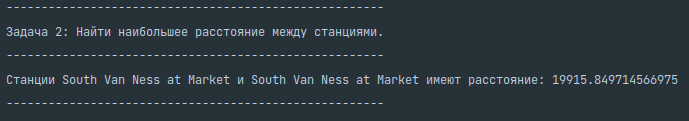
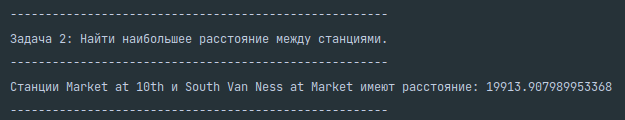
fix lab1

diff --git a/LabWork1/README.md b/LabWork1/README.md
@@ -33,18 +33,19 @@
 
 2. Найти наибольшее расстояние между станциями.
 
-Производим декартово произведение таблицы stationsInternal на саму себя при помощи ```cartesian```. Для каждой пары станции составляем кортеж: пара имен станций и расстояние, вычисленное по определенной [формуле](https://en.wikipedia.org/wiki/Haversine_formula). После сравниваем пары и выбираем с наибольшим расстоянием.
+Производим декартово произведение таблицы stationsInternal на саму себя при помощи ```cartesian```. Фильтруем пары так, чтобы в паре не было станций с одинаковыми названиями. Для каждой пары станции составляем кортеж: пара имен станций и расстояние, вычисленное по определенной [формуле](https://en.wikipedia.org/wiki/Haversine_formula). После сравниваем пары и выбираем с наибольшим расстоянием.
 
 ```
- val r_earth = 6371
+val r_earth = 6371
 
    val biggestDistance =  stationsInternal
      .cartesian(stationsInternal)
+     .filter(stations => stations._1.name != stations._2.name)
      .map(row =>
        (
-         (row._1.name, row._2.name), 
-         2 * r_earth * asin( sqrt( pow(sin((row._1.lat - row._2.lat) / 2),2) 
-           + (1 - pow(sin((row._1.lat - row._2.lat) / 2),2) 
+         (row._1.name, row._2.name),
+         2 * r_earth * asin( sqrt( pow(sin((row._1.lat - row._2.lat) / 2),2)
+           + (1 - pow(sin((row._1.lat - row._2.lat) / 2),2)
            - pow(sin((row._1.lat + row._2.lat) / 2),2) * pow(sin((row._1.long + row._2.long) / 2),2))))
        )
      )
